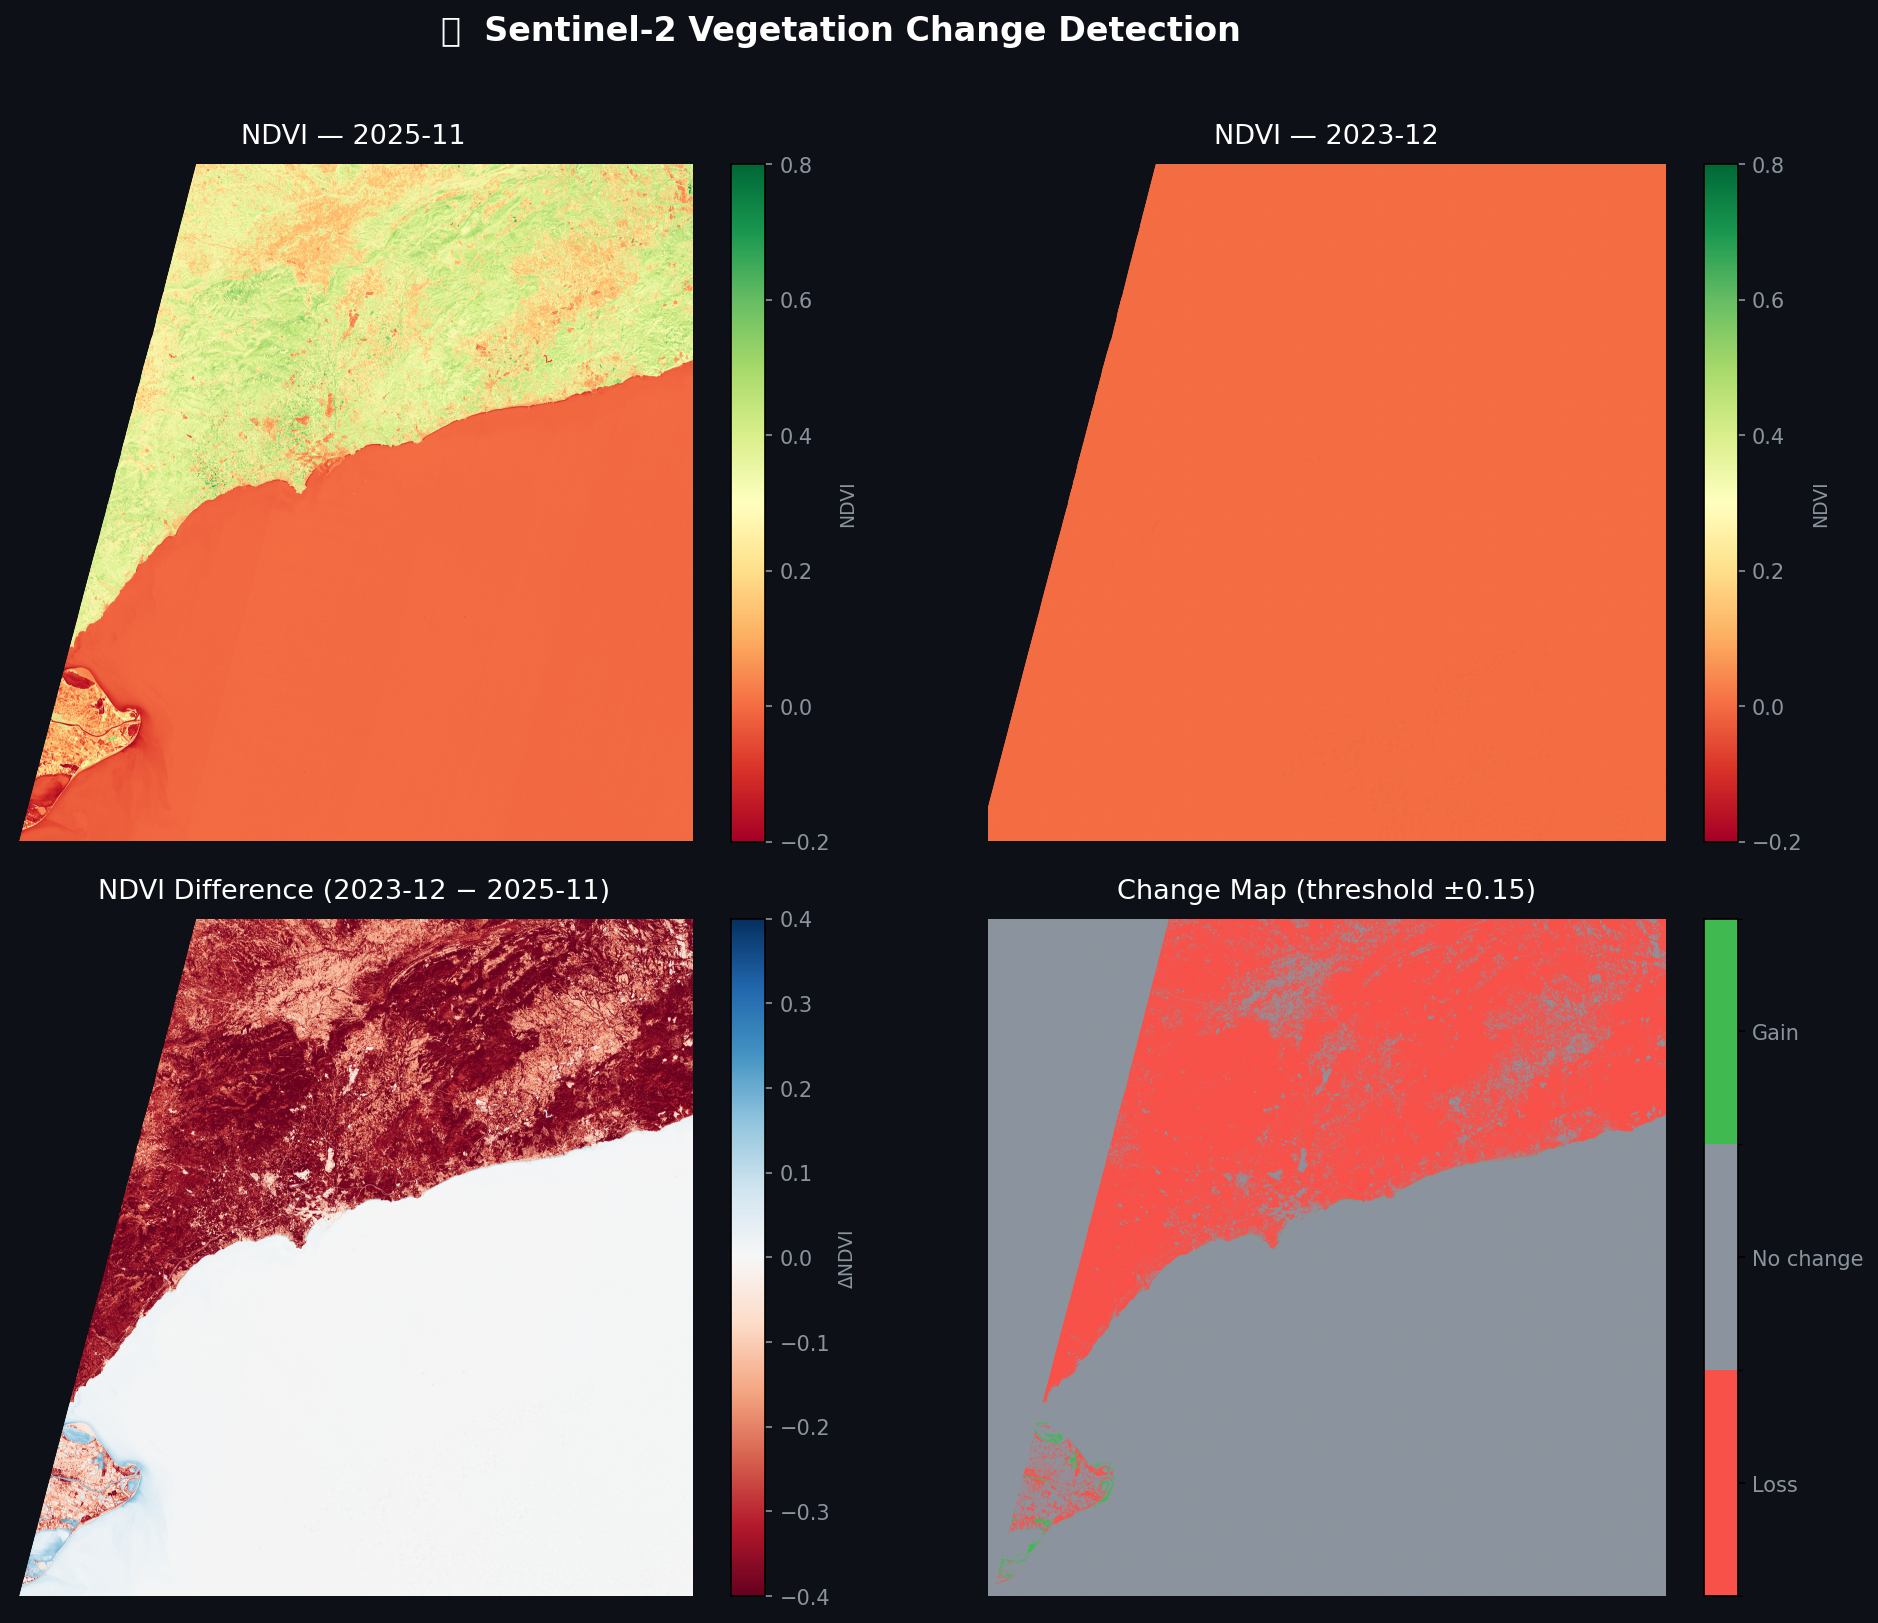
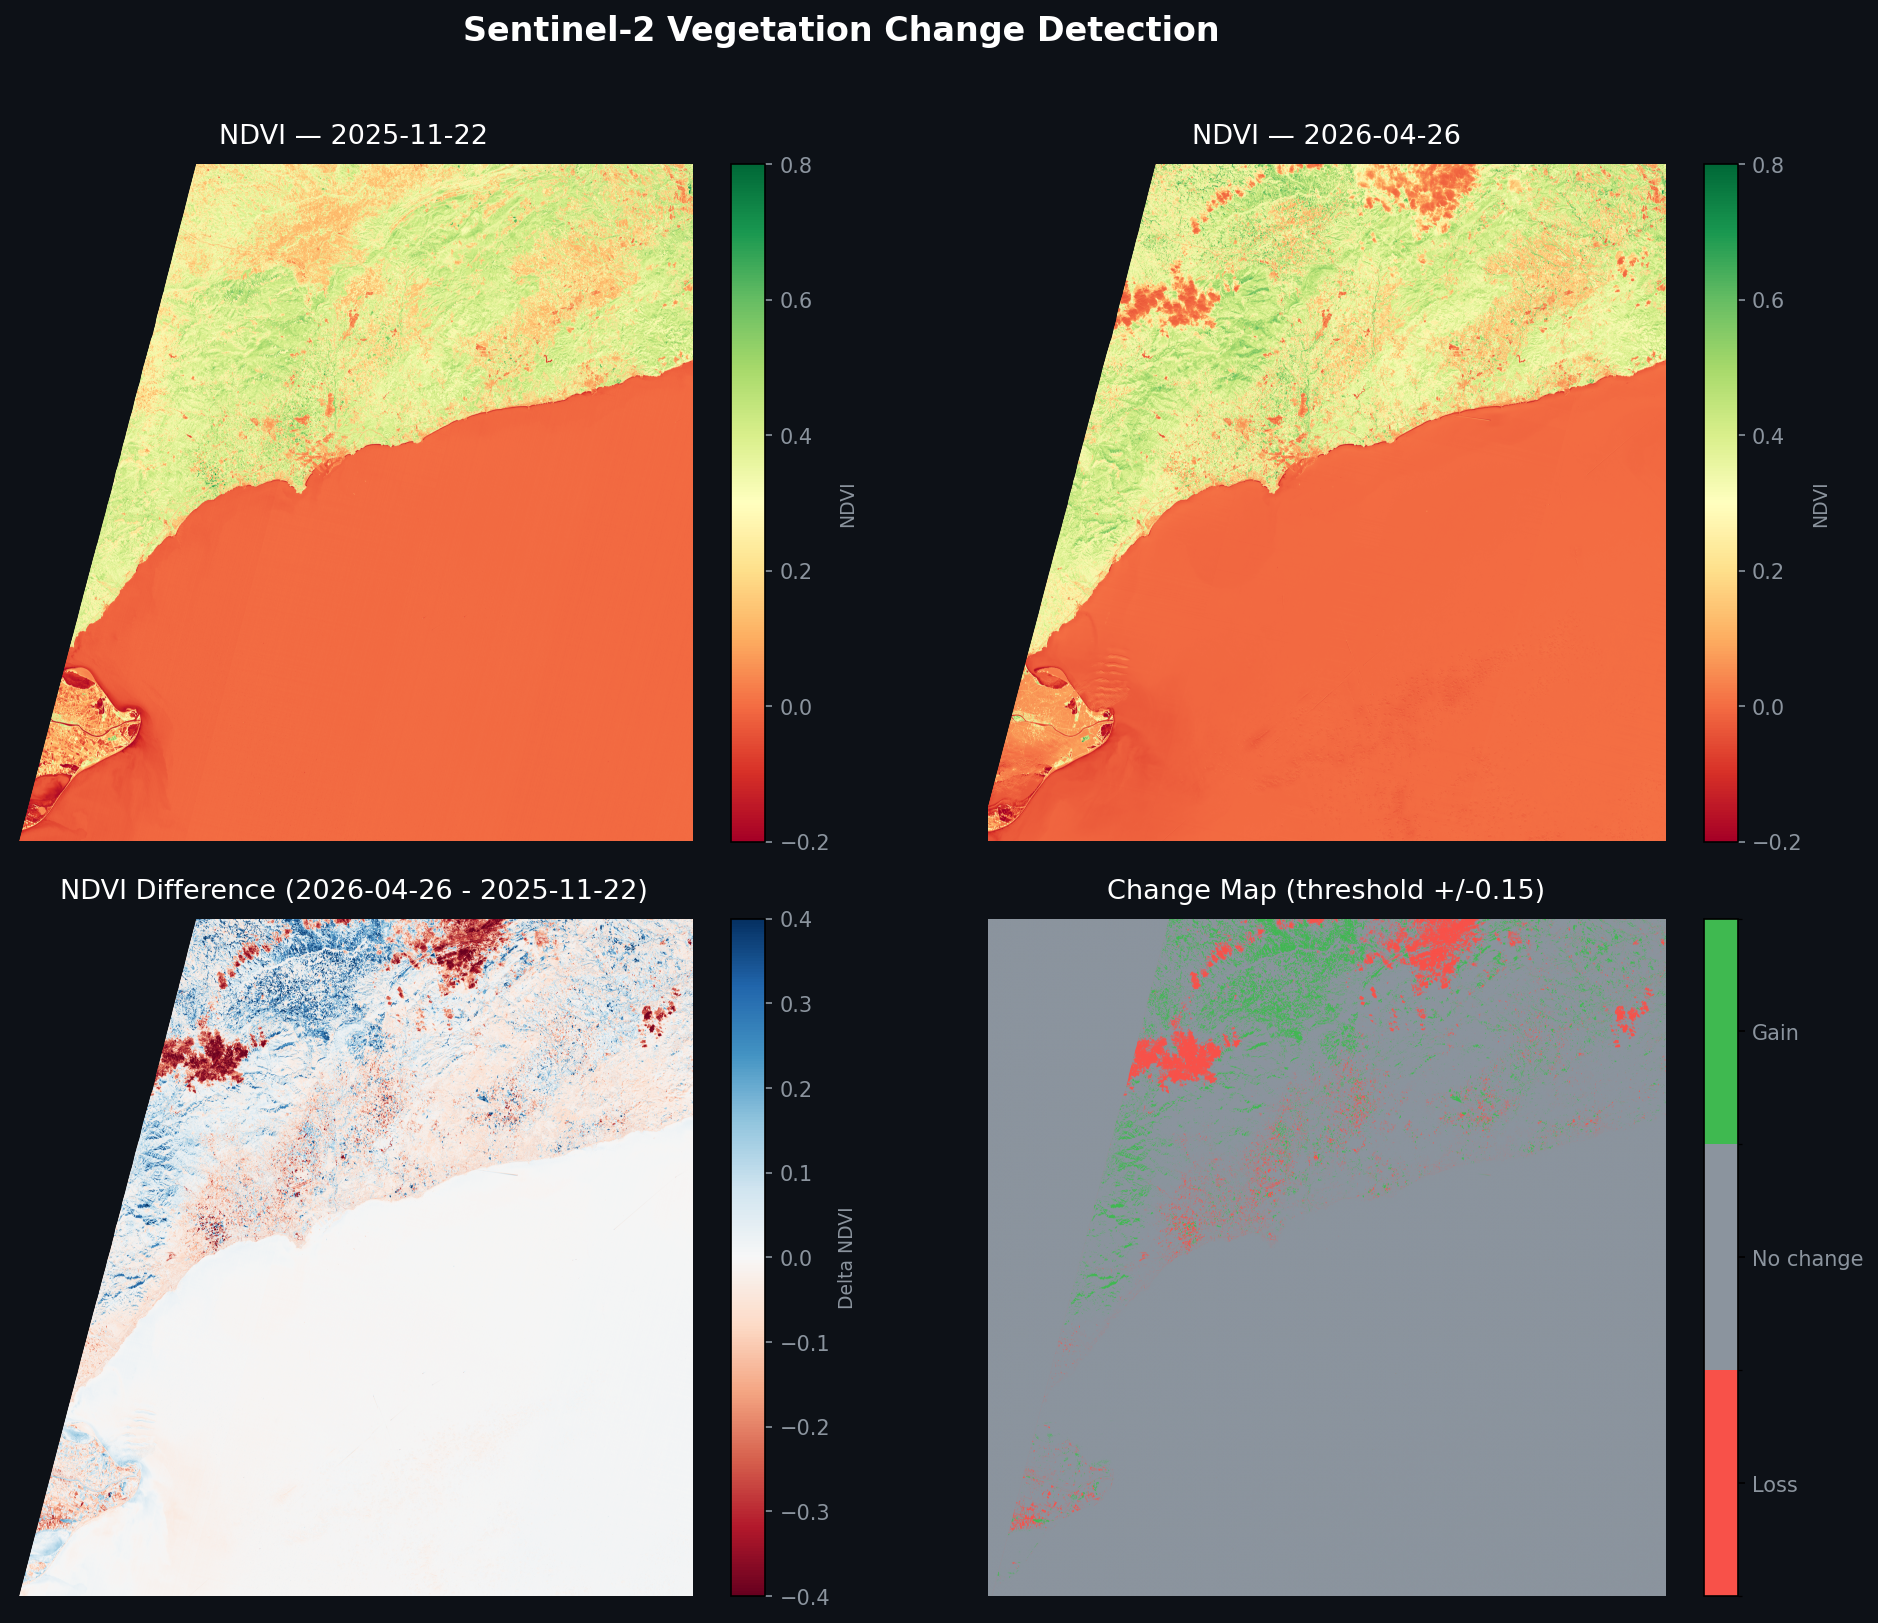
fix: generation of image now ok

diff --git a/soil_change/config.py b/soil_change/config.py
@@ -63,13 +63,13 @@ OUTPUT_DIR = Path("outputs")
 OUTPUT_DIR.mkdir(exist_ok=True)
 
 DATE_1 = ScenePaths(
-    label="2025-11",
+    label="2025-11-22",
     red=DATA_DIR / "2025-11-22/T31TCF_20251122T104249_B04_10m.jp2",
     nir=DATA_DIR / "2025-11-22/T31TCF_20251122T104249_B08_10m.jp2",
 )
 
 DATE_2 = ScenePaths(
-    label="2023-12",
+    label="2026-04-26",
     red=DATA_DIR / "2026-04-26/T31TCF_20260426T104021_B04_10m.jp2",
     nir=DATA_DIR / "2026-04-26/T31TCF_20260426T104021_B08_10m.jp2",
 )

diff --git a/README.md b/README.md
@@ -250,6 +250,14 @@ These limitations are documented by design to show critical thinking and transpa
 
 Sentinel-2 L2A products are available from [Copernicus Data Space](https://dataspace.copernicus.eu/).
 
+Images used in this project were downloaded from Copernicus Data Space with the following search filters:
+
+- **Satellite mission:** Sentinel-2
+- **Product level:** L2A *(Level-2A; atmospherically corrected surface reflectance product)*
+- **Cloud cover filter:** up to 10%
+- **Geographic zone:** area covering Delta de l'Ebre and Camp de Tarragona
+- **Acquisition dates used in this analysis:** 2025-11-22 and 2026-04-26
+
 Recommended good practices for robust comparisons:
 
 - same tile and geographic extent,